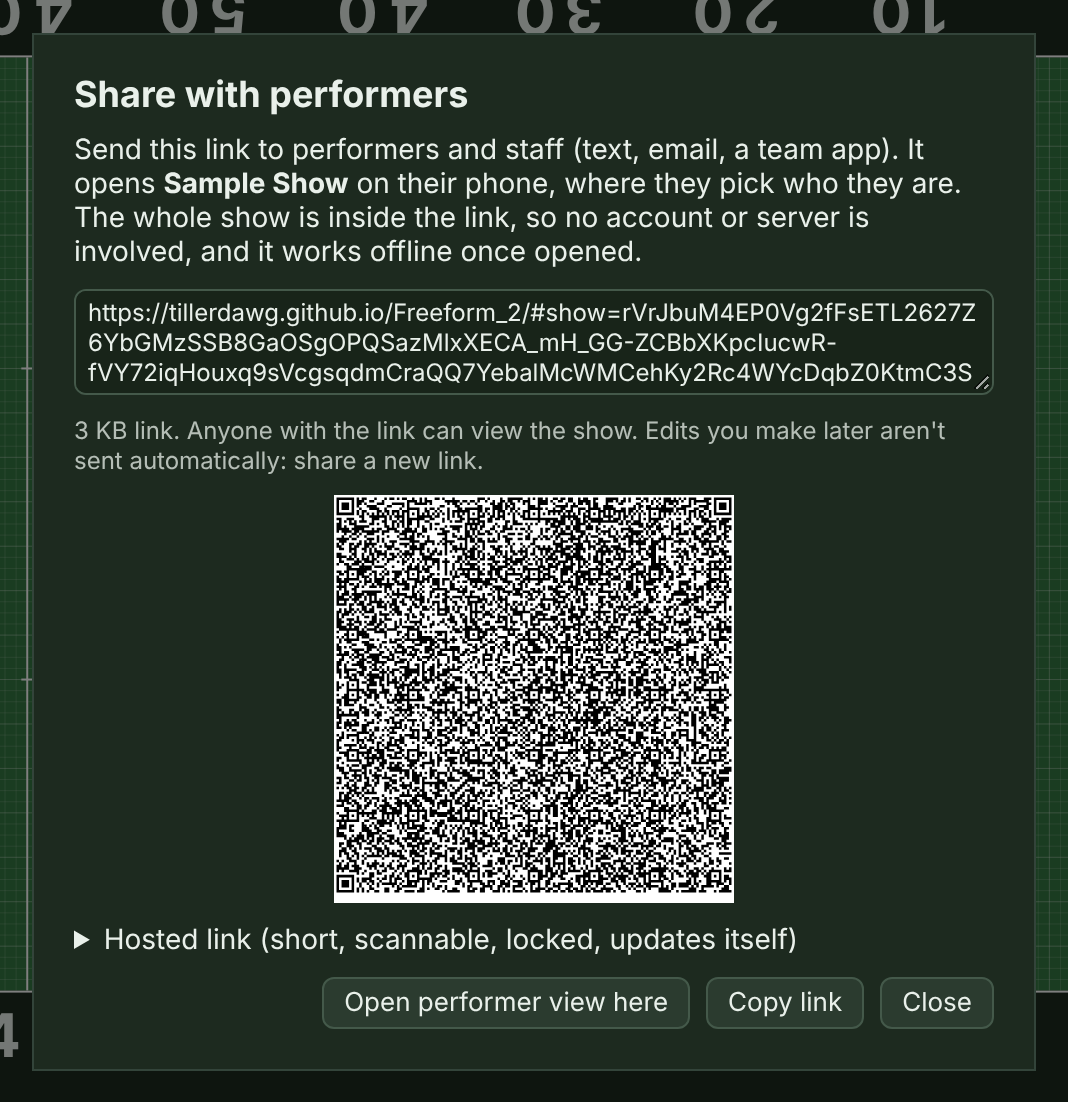
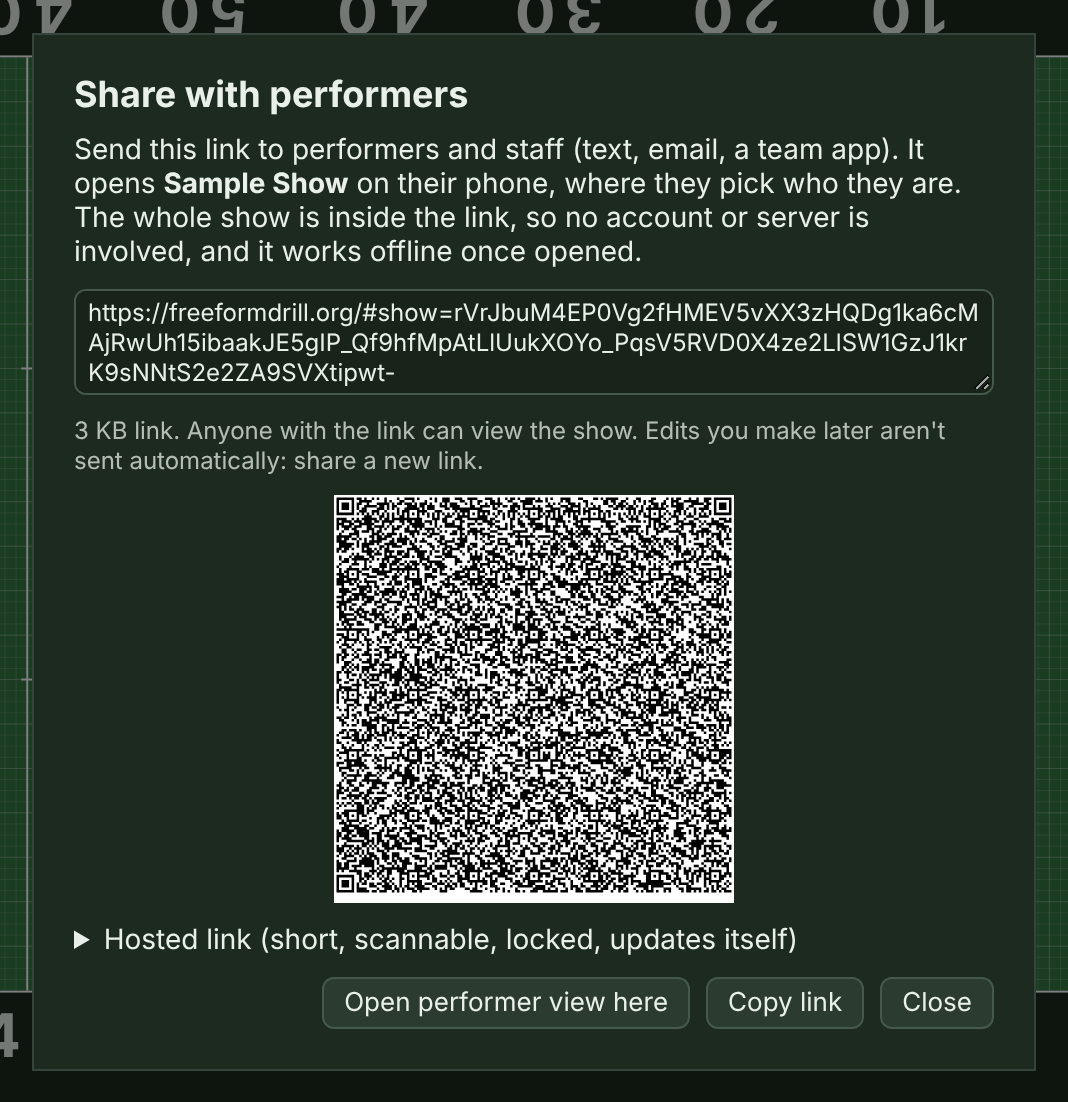
Point the docs, link preview and screenshots at freeformdrill.org
Merge once the custom domain is live.

Claude-Session: https://claude.ai/code/session_012ak5ZSazZVcYvhNSTGR7LX

Changed region(s): [[0.309, 0.4319, 0.7107, 0.833], [0.0618, 0.2777, 0.927, 0.3702]]

diff --git a/index.html b/index.html
@@ -16,7 +16,7 @@
     <meta property="og:type" content="website" />
     <meta property="og:title" content="FreeFORM" />
     <meta property="og:description" content="Drill, without the bill. FreeFORM is a free and open-source drill design and learning tool for all marching arts organizations." />
-    <meta property="og:image" content="https://tillerdawg.github.io/Freeform_2/og-image.png" />
+    <meta property="og:image" content="https://freeformdrill.org/og-image.png" />
     <meta name="twitter:card" content="summary_large_image" />
     <style>
       :root { --bg: #1d2a1f; --bg-deep: #182419; --surface: #22302a; --surface-2: #2b3b2f; --line: #33443a; --line-strong: #44594a; --muted: #6b8270; --green: #3d6b4a; --green-line: #7cc08b; --text: #e9f0ea; --gold: #ffd166; --gold-fill: #ffd166; --on-gold: #182419; --warn: #f5c518; --warn-line: #5a4a1a; --danger: #ff8080; --step-red: #ff4d4d; --danger-bg: #5a2b2b; --danger-line: #a04848; --blue: #5ad1ff; --turf: #357842; } /* = src/ui/palette.ts */

diff --git a/PLAN.md b/PLAN.md
@@ -49,4 +49,4 @@
 - ✅ Logo and brand: the FreeFORM curve, the "Free FORM" wordmark (Parisienne + Barlow Semi Condensed), an FF monogram and app icon, tagline "Drill, without the bill." Files and rules in `brand/`. ✅ In the app: browser-tab favicon and home-screen icons (both the curve; FF on field dark kept as an alternate). ✅ Logo in the editor's top bar, the phone start screen and the old-browser page; a link-preview card for pasted links.
 - ✅ Light mode: a sun/moon button (editor top bar, phone view) switches the panels between dark and light; the field stays the same. Kept per browser. Later, if wanted: follow the device's light/dark setting.
 - ✅ How-to guide for new users (`docs/HOW-TO.md`) with screenshots retaken by a script from a sample show (`scripts/screenshots.mjs`); README trimmed to a front page. Kept current with every change (CLAUDE.md).
-- New web address: **freeformdrill.org** (Jason). Not registered yet: check it's available and register it first (on 2026-11-04 the address didn't exist yet, "server not found", which looks unregistered; a registrar search is the final word). Then: set it as the GitHub Pages custom domain (a `CNAME` file in `public/`, DNS records, Enforce HTTPS); the repository keeps its name. GitHub should send the old `tillerdawg.github.io/Freeform_2/` address on to the custom domain (check this on the day; browsers keep the `#show=`/`#load=` part across the redirect), so old links and QR codes keep working. **Data doesn't move by itself:** a browser keeps saved data per web address, so on the new address directors' autosaved shows, their starting section lists, recordings, and the GitHub publishing token, and performers' saved shows, start empty. Before switching, ship a notice in the editor asking directors to Export their shows (and import them on the new address), and plan for performers to reopen their links. Also update the address in `index.html` (link preview), the docs, and the screenshot script. App links for the store apps need this domain (see the store-apps item).
+- 🔄 New web address: **freeformdrill.org** (Jason registered it at Cloudflare, 2026-11-04). Steps: verify the domain in GitHub (account Settings → Pages, a TXT record); DNS records in Cloudflare, DNS only (gray cloud) so GitHub can issue the HTTPS certificate; Jason exports his shows; custom domain in the repository's Settings → Pages; Enforce HTTPS once it's offered. The repository keeps its name; GitHub should forward the old `tillerdawg.github.io/Freeform_2/` address (check on the day; browsers keep the `#show=`/`#load=` part). **Data doesn't move by itself:** a browser keeps saved data per web address, so on the new address autosaved shows, starting section lists, recordings, the GitHub publishing token, hosted-link keys, and phones' saved shows start empty. Jason is the only user so far, so no in-app export notice: he exports and re-imports, then republishes hosted shows. The address changes in the docs, `index.html` and the screenshot script are ready on the `freeformdrill-domain` branch. App links for the store apps need this domain (see the store-apps item).

diff --git a/brand/README.md b/brand/README.md
@@ -27,7 +27,7 @@ The logo, small logo, FF monogram, and curve each come in a **dark** version (fo
 | `freeform-app-icon-ff.svg` | Alternate app icon: FF on field dark. Not used by the app yet. |
 | `freeform-favicon.svg` | Source of the browser-tab icon: the curve with fatter dots, dark on light tabs and light on dark tabs. |
 
-**In the app** (`public/`): `favicon.svg` (copied from `freeform-favicon.svg`), `favicon-32.png` for browsers without SVG favicons, `apple-touch-icon.png` (from `freeform-app-icon-ios.svg`), and `icon-192.png` and `icon-512.png` (both from `freeform-app-icon.svg`). Also `logo.svg` (phone start screen, old-browser page), `logo-small.svg` and `mark.svg` (the editor's top bar: the small logo, or just the curve in narrow windows), each with a `-light` version for light mode, and `og-image.png`, the 1200 × 630 card shown when a FreeFORM link is pasted into a message (its address in `index.html` is the GitHub Pages one).
+**In the app** (`public/`): `favicon.svg` (copied from `freeform-favicon.svg`), `favicon-32.png` for browsers without SVG favicons, `apple-touch-icon.png` (from `freeform-app-icon-ios.svg`), and `icon-192.png` and `icon-512.png` (both from `freeform-app-icon.svg`). Also `logo.svg` (phone start screen, old-browser page), `logo-small.svg` and `mark.svg` (the editor's top bar: the small logo, or just the curve in narrow windows), each with a `-light` version for light mode, and `og-image.png`, the 1200 × 630 card shown when a FreeFORM link is pasted into a message (its address in `index.html` is freeformdrill.org).
 
 <p>
   <img src="freeform-app-icon-ios.svg" alt="App icon: the curve on field dark" width="96">

diff --git a/DECISIONS.md b/DECISIONS.md
@@ -998,3 +998,9 @@ Each entry: timestamp, who decided, context, options considered, decision.
 - **Context:** The app lives at `tillerdawg.github.io/Freeform_2/`. Jason wants an address of FreeFORM's own; store apps opening QR-code links need a domain FreeFORM controls (iOS Universal Links and Android App Links need files at the domain's root).
 - **Options:** Rename the repository (moves the github.io address and breaks every existing link); a custom domain.
 - **Decision:** A custom domain, freeformdrill.org, once it's confirmed available and registered. The repository keeps its name, and the old address should forward to the new one. The switch plan, including moving saved shows (browsers keep data per address), is in PLAN.md.
+
+## 2026-11-04 15:50 EST — Moving to freeformdrill.org without an export notice
+- **Who:** Jason Tiller (only he has shows saved so far); details Claude's *(Jason can veto)*.
+- **Context:** Jason registered freeformdrill.org at Cloudflare. Browsers keep saved data per web address, so shows saved at the old address don't appear at the new one.
+- **Options:** Ship an in-app "export your shows" notice and wait a week before switching; switch as soon as DNS is ready.
+- **Decision:** Switch as soon as DNS is ready, since nobody else has data to lose. Jason exports his shows first and imports them at the new address. Cloudflare's records stay "DNS only" (no Cloudflare proxy), because GitHub can't issue the HTTPS certificate through the proxy.

diff --git a/docs/HOW-TO.md b/docs/HOW-TO.md
@@ -2,7 +2,7 @@
 
 This guide walks you through writing a show in FreeFORM, from an empty field to dot sheets in your students' hands and the drill on their phones. It's written for band directors and drill writers. You don't need to have used Pyware or UDB before, but if you have, most of this will feel familiar.
 
-FreeFORM runs in your web browser at <https://tillerdawg.github.io/Freeform_2/>. There's nothing to install and no account to make.
+FreeFORM runs in your web browser at <https://freeformdrill.org/>. There's nothing to install and no account to make.
 
 The pictures in this guide come from a small sample show (47 performers, 4 sets) that ships with the code. Your screen will look the same, just with your own drill on it.
 

diff --git a/README.md b/README.md
@@ -19,7 +19,7 @@ Sharing a show is easy: students and staff scan a QR code (or open a link you te
 
 A note on where the ideas came from: FreeFORM is modeled on Pyware and the Ultimate Drill Book (UDB), but no proprietary code went into it (see [Clean room](#clean-room)).
 
-**Use it here:** <https://tillerdawg.github.io/Freeform_2/>
+**Use it here:** <https://freeformdrill.org/>
 
 **New to FreeFORM? Start with the [How-to guide](docs/HOW-TO.md).** It walks through everything below, step by step, with pictures.
 
